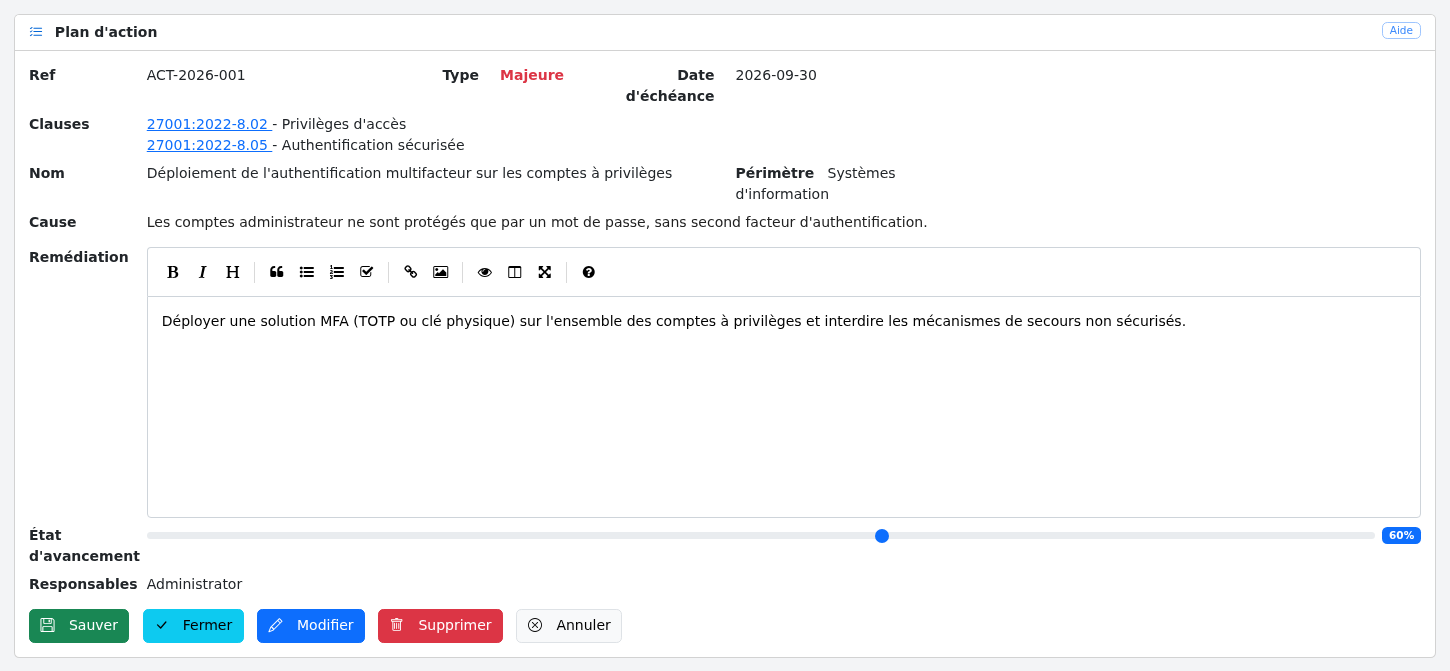
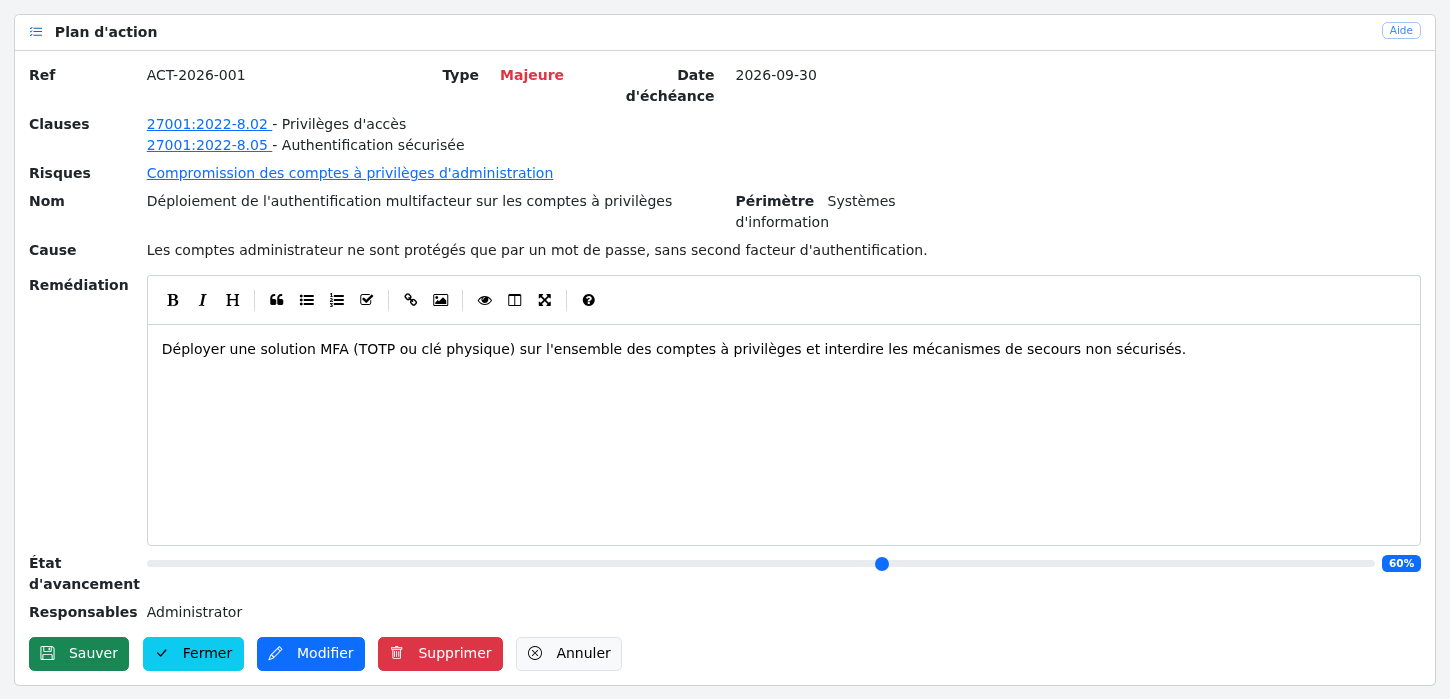
Document the risks of action plans and retake the action plan screenshots in English, French and German
Also replace the CSV, Excel and print buttons by the export button in the controls, measures and action plans documentation.

diff --git a/docs/actions.de.md b/docs/actions.de.md
@@ -9,12 +9,13 @@ Mit dieser Ansicht können die Aktionspläne verfolgt werden:
 [![Screenshot](images/a1.de.png)](images/a1.de.png)
 
 Die Liste kann nach Typ (Major, Minor, Beobachtung, Gelegenheit), nach Status (offen, geschlossen, alle) und nach
-Geltungsbereich gefiltert werden. Sie zeigt für jeden Aktionsplan seine Referenz, seinen Typ, seinen Status, seinen
-Fortschritt, seinen Namen, seinen Geltungsbereich, seine Verantwortlichen und sein Fälligkeitsdatum.
-Überschrittene Fälligkeitsdaten werden rot angezeigt.
+Geltungsbereich gefiltert werden. Sie zeigt für jeden Aktionsplan seine Referenz, seinen Typ, die zugehörigen Risiken,
+seinen Status, seinen Fortschritt, seinen Namen, seinen Geltungsbereich, seine Verantwortlichen und sein Fälligkeitsdatum.
+Überschrittene Fälligkeitsdaten werden rot angezeigt. Durch Klicken auf ein Risiko wird es geöffnet.
 
 Mit der Schaltfläche „Spalten“ können zusätzliche Spalten (zugehörige Klauseln, Behebung) angezeigt werden,
-und mit den Schaltflächen „Kopieren“, „CSV“, „Excel“ und „Drucken“ kann die angezeigte Liste exportiert werden.
+und mit den Schaltflächen „Kopieren“ und „Exportieren“ kann die angezeigte Liste kopiert oder nach Excel exportiert
+werden.
 
 Durch Klicken auf die Referenz eines Aktionsplans [öffnen Sie ihn](#show). Mit der Schaltfläche „Neu“ können Sie
 [einen neuen Aktionsplan erstellen](#create).
@@ -38,6 +39,8 @@ Die Ansicht enthält:
 
 * den Geltungsbereich und die zugehörigen Klauseln;
 
+* die zugehörigen Risiken;
+
 * die Ursache;
 
 * die durchzuführende Behebung;
@@ -54,9 +57,10 @@ Wenn Sie klicken auf:
 
 ## Einen Aktionsplan anzeigen {#show}
 
-Diese Ansicht zeigt einen Aktionsplan an: Referenz, Typ, Status, Geltungsbereich, Klauseln, Name, Ursache,
+Diese Ansicht zeigt einen Aktionsplan an: Referenz, Typ, Status, Geltungsbereich, Klauseln, Risiken, Name, Ursache,
 Fälligkeitsdatum, Verantwortliche und, bei einem geschlossenen Aktionsplan, sein Abschlussdatum und seine
-Begründung. Die Klauseln und die Kontrolle, aus der der Aktionsplan hervorgeht, sind von dieser Ansicht aus erreichbar.
+Begründung. Die Klauseln und Risiken werden nur angezeigt, wenn der Aktionsplan damit verknüpft ist. Die Klauseln,
+die Risiken und die Kontrolle, aus der der Aktionsplan hervorgeht, sind von dieser Ansicht aus erreichbar.
 
 [![Screenshot](images/a4.de.png)](images/a4.de.png)
 
@@ -96,7 +100,7 @@ Wenn Sie klicken auf:
 ## Einen Aktionsplan ändern <a name="edit"></a>
 
 Mit dieser Ansicht können alle Informationen eines Aktionsplans geändert werden: Referenz, Typ, Name,
-Geltungsbereich, Klauseln, Ursache, Behebung, Fälligkeitsdatum, Verantwortliche, Fortschritt, Status, Abschlussdatum
+Geltungsbereich, Klauseln, Risiken, Ursache, Behebung, Fälligkeitsdatum, Verantwortliche, Fortschritt, Status, Abschlussdatum
 und Begründung.
 
 [![Screenshot](images/a2.de.png)](images/a2.de.png)

diff --git a/docs/actions.fr.md b/docs/actions.fr.md
@@ -9,11 +9,11 @@ Cet écran permet de suivre les plans d’action :
 [![Screenshot](images/a1.fr.png)](images/a1.fr.png)
 
 La liste peut être filtrée par type (majeur, mineur, observation, opportunité), par statut (ouvert, fermé, tous) et par périmètre.
-Elle affiche pour chaque plan d’action sa référence, son type, son statut, son avancement, son nom, son périmètre,
-ses responsables et sa date d’échéance. Les dates d’échéance dépassées sont affichées en rouge.
+Elle affiche pour chaque plan d’action sa référence, son type, les risques associés, son statut, son avancement,
+son nom, son périmètre, ses responsables et sa date d’échéance. Un clic sur un risque permet de l’afficher. Les dates d’échéance dépassées sont affichées en rouge.
 
 Le bouton « Colonnes » permet d’afficher des colonnes supplémentaires (clauses associées, remédiation),
-et les boutons « Copier », « CSV », « Excel » et « Imprimer » permettent d’exporter la liste affichée.
+et les boutons « Copier » et « Exporter » permettent de copier la liste affichée ou de l’exporter vers Excel.
 
 En cliquant sur la référence d’un plan d’action, vous arrivez sur [ce plan d’action](#show). Le bouton « Nouveau » permet de [créer un nouveau plan d’action](#create).
 
@@ -36,6 +36,8 @@ L’écran contient :
 
 * le périmètre et les clauses associées ;
 
+* les risques associés ;
+
 * la cause ;
 
 * la remédiation à mettre en œuvre ;
@@ -52,9 +54,10 @@ Lorsque vous cliquez sur :
 
 ## Afficher un plan d’action {#show}
 
-Cet écran affiche un plan d’action : référence, type, statut, périmètre, clauses, nom, cause, date d’échéance,
-responsables et, pour un plan d’action clôturé, sa date de clôture et sa justification. Les clauses et le contrôle
-à l’origine du plan d’action sont accessibles depuis cet écran.
+Cet écran affiche un plan d’action : référence, type, statut, périmètre, clauses, risques, nom, cause, date
+d’échéance, responsables et, pour un plan d’action clôturé, sa date de clôture et sa justification. Les clauses et
+les risques ne sont affichés que si le plan d’action y est lié. Les clauses, les risques et le contrôle à l’origine
+du plan d’action sont accessibles depuis cet écran.
 
 [![Screenshot](images/a4.fr.png)](images/a4.fr.png)
 
@@ -93,7 +96,7 @@ Lorsque vous cliquez sur :
 ## Modifier un plan d’action <a name="edit"></a>
 
 Cet écran permet de modifier l’ensemble des informations d’un plan d’action : référence, type, nom, périmètre,
-clauses, cause, remédiation, date d’échéance, responsables, avancement, statut, date de clôture et justification.
+clauses, risques, cause, remédiation, date d’échéance, responsables, avancement, statut, date de clôture et justification.
 
 [![Screenshot](images/a2.fr.png)](images/a2.fr.png)
 

diff --git a/docs/actions.md b/docs/actions.md
@@ -9,11 +9,12 @@ This screen allows you to follow the action plans:
 [![Screenshot](images/a1.png)](images/a1.png)
 
 The list can be filtered by type (major, minor, observation, opportunity), by status (open, closed, all) and by scope.
-It shows, for each action plan, its reference, type, status, progress, name, scope, owners and due date.
+It shows, for each action plan, its reference, type, associated risks, status, progress, name, scope, owners and
+due date. Clicking on a risk opens it.
 Overdue due dates are displayed in red.
 
 The "Column visibility" button lets you show additional columns (associated clauses, remediation),
-and the "Copy", "CSV", "Excel" and "Print" buttons export the displayed list.
+and the "Copy" and "Export" buttons copy the displayed list or export it to Excel.
 
 Clicking on the reference of an action plan [opens it](#show). The "New" button [creates a new action plan](#create).
 
@@ -36,6 +37,8 @@ The screen contains:
 
 * the scope and the associated clauses;
 
+* the associated risks;
+
 * the cause;
 
 * the remediation to be carried out;
@@ -52,9 +55,9 @@ When you click:
 
 ## Show an action plan {#show}
 
-This screen displays an action plan: reference, type, status, scope, clauses, name, cause, due date, owners and,
-for a closed action plan, its close date and justification. The clauses and the originating measurement can be
-opened from this screen.
+This screen displays an action plan: reference, type, status, scope, clauses, risks, name, cause, due date, owners
+and, for a closed action plan, its close date and justification. The clauses and risks are only shown when the action
+plan is linked to some. The clauses, the risks and the originating measurement can be opened from this screen.
 
 [![Screenshot](images/a4.png)](images/a4.png)
 
@@ -92,8 +95,8 @@ When you click:
 
 ## Edit an action plan <a name="edit"></a>
 
-This screen allows you to edit all the information of an action plan: reference, type, name, scope, clauses, cause,
-remediation, due date, owners, progress, status, close date and justification.
+This screen allows you to edit all the information of an action plan: reference, type, name, scope, clauses, risks,
+cause, remediation, due date, owners, progress, status, close date and justification.
 
 [![Screenshot](images/a2.png)](images/a2.png)
 

diff --git a/docs/measures.de.md b/docs/measures.de.md
@@ -5,7 +5,7 @@ In diesem Bereich können neue Sicherheitsmaßnahmen definiert, geändert und ge
 ## Liste der Sicherheitsmaßnahmen <a name="list"></a>
 
 Die Liste der Sicherheitsmaßnahmen zeigt alle Maßnahmen an, ermöglicht es, sie nach Domäne zu filtern oder eine Maßnahme anhand eines Teils ihres Namens zu suchen.
-Mit den Schaltflächen „Spalten“, „Kopieren“, „CSV“, „Excel“ und „Drucken“ können die angezeigten Spalten ausgewählt und die Liste exportiert werden.
+Mit den Schaltflächen „Spalten“, „Kopieren“ und „Exportieren“ können die angezeigten Spalten ausgewählt und die Liste kopiert oder nach Excel exportiert werden.
 
 [![Screenshot](images/m1.de.png)](images/m1.de.png)
 

diff --git a/docs/measures.fr.md b/docs/measures.fr.md
@@ -5,7 +5,7 @@ Cette partie permet de définir, de modifier et de planifier de nouvelles mesure
 ## Liste des mesures de sécurité <a name="list"></a>
 
 La liste des mesures de sécurité permet d’afficher la liste des mesures, de les filtrer par domaine ou de rechercher une mesure sur base d’une partie de son nom.
-Les boutons « Colonnes », « Copier », « CSV », « Excel » et « Imprimer » permettent de choisir les colonnes affichées et d'exporter la liste.
+Les boutons « Colonnes », « Copier » et « Exporter » permettent de choisir les colonnes affichées, de copier la liste ou de l'exporter vers Excel.
 
 [![Screenshot](images/m1.fr.png)](images/m1.fr.png)
 

diff --git a/docs/controls.de.md b/docs/controls.de.md
@@ -14,8 +14,8 @@ Diese Ansicht zeigt die Liste der Kontrollen an und ermöglicht es, sie zu filte
 
 * Status der Kontrolle: alle, erledigt und zu erledigen.
 
-Mit der Schaltfläche „Spalten“ können die angezeigten Spalten ausgewählt werden, und mit den Schaltflächen „Kopieren“,
-„CSV“, „Excel“ und „Drucken“ kann die angezeigte Liste exportiert werden.
+Mit der Schaltfläche „Spalten“ können die angezeigten Spalten ausgewählt werden, und mit den Schaltflächen „Kopieren“
+und „Exportieren“ kann die angezeigte Liste kopiert oder nach Excel exportiert werden.
 
 [![Screenshot](images/c1.de.png)](images/c1.de.png)
 

diff --git a/docs/measures.md b/docs/measures.md
@@ -5,7 +5,7 @@ This part allows you to define, modify and plan new controls.
 ## List of controls <a name="list"></a>
 
 The list of controls allows you to display the list of controls, to filter them by domain or to search for a control based on part of its name.
-The "Column visibility", "Copy", "CSV", "Excel" and "Print" buttons let you choose the displayed columns and export the list.
+The "Column visibility", "Copy" and "Export" buttons let you choose the displayed columns, copy the list or export it to Excel.
 
 [![Screenshot](images/m1.png)](images/m1.png)
 

diff --git a/docs/controls.fr.md b/docs/controls.fr.md
@@ -14,8 +14,8 @@ Cet écran permet d'afficher la liste des contrôles et de les filtrer par :
 
 * état du contrôle : tous, fait et à faire.
 
-Le bouton « Colonnes » permet de choisir les colonnes affichées, et les boutons « Copier », « CSV », « Excel » et
-« Imprimer » permettent d'exporter la liste affichée.
+Le bouton « Colonnes » permet de choisir les colonnes affichées, et les boutons « Copier » et « Exporter »
+permettent de copier la liste affichée ou de l'exporter vers Excel.
 
 [![Screenshot](images/c1.fr.png)](images/c1.fr.png)
 

diff --git a/docs/controls.md b/docs/controls.md
@@ -14,8 +14,8 @@ This screen is used to display the list of measurements and to filter them by:
 
 * measurement status: all, done and to do.
 
-The "Column visibility" button lets you choose the displayed columns, and the "Copy", "CSV", "Excel" and "Print"
-buttons export the displayed list.
+The "Column visibility" button lets you choose the displayed columns, and the "Copy" and "Export"
+buttons copy the displayed list or export it to Excel.
 
 [![Screenshot](images/c1.png)](images/c1.png)
 
